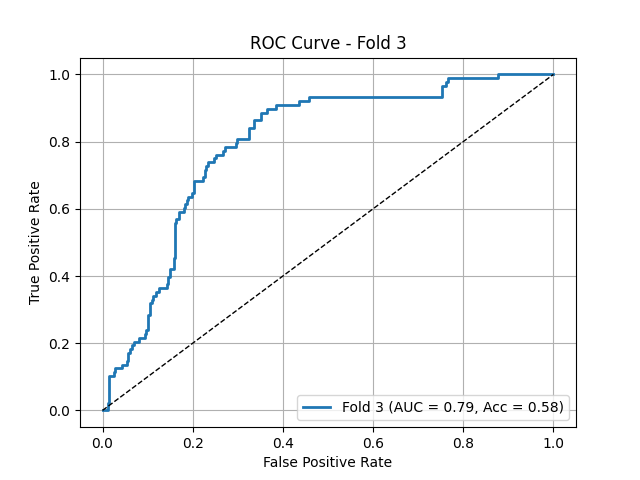
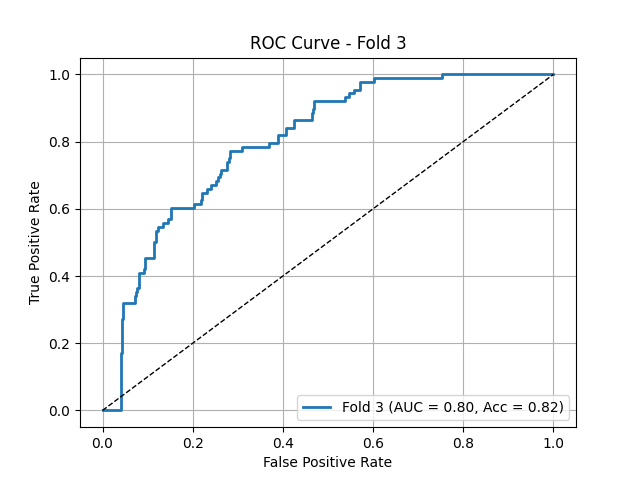
commiting changed files

diff --git a/train_so2_thb_with_rad.py b/train_so2_thb_with_rad.py
@@ -207,8 +207,7 @@ for fold in range(k_fold):
 
     # --- Load Best Model and Test ---
     #model.load_state_dict(best_model_state)
-    #model.load_state_dict(torch.load(f"checkpoints/{commit_log}/best_model_{fold}.pth"))
-    model.load_state_dict(torch.load(r'checkpoints\418f48f\best_model_0.pth'))
+    model.load_state_dict(torch.load(f"checkpoints/{commit_log}/best_model_{fold}.pth"))
     model.eval()
     y_true, y_probs = model.predict_on_loader(test_loader)
     fpr, tpr, roc_auc = plot_roc_curve(y_true, y_probs, fold_idx=fold + 1)
